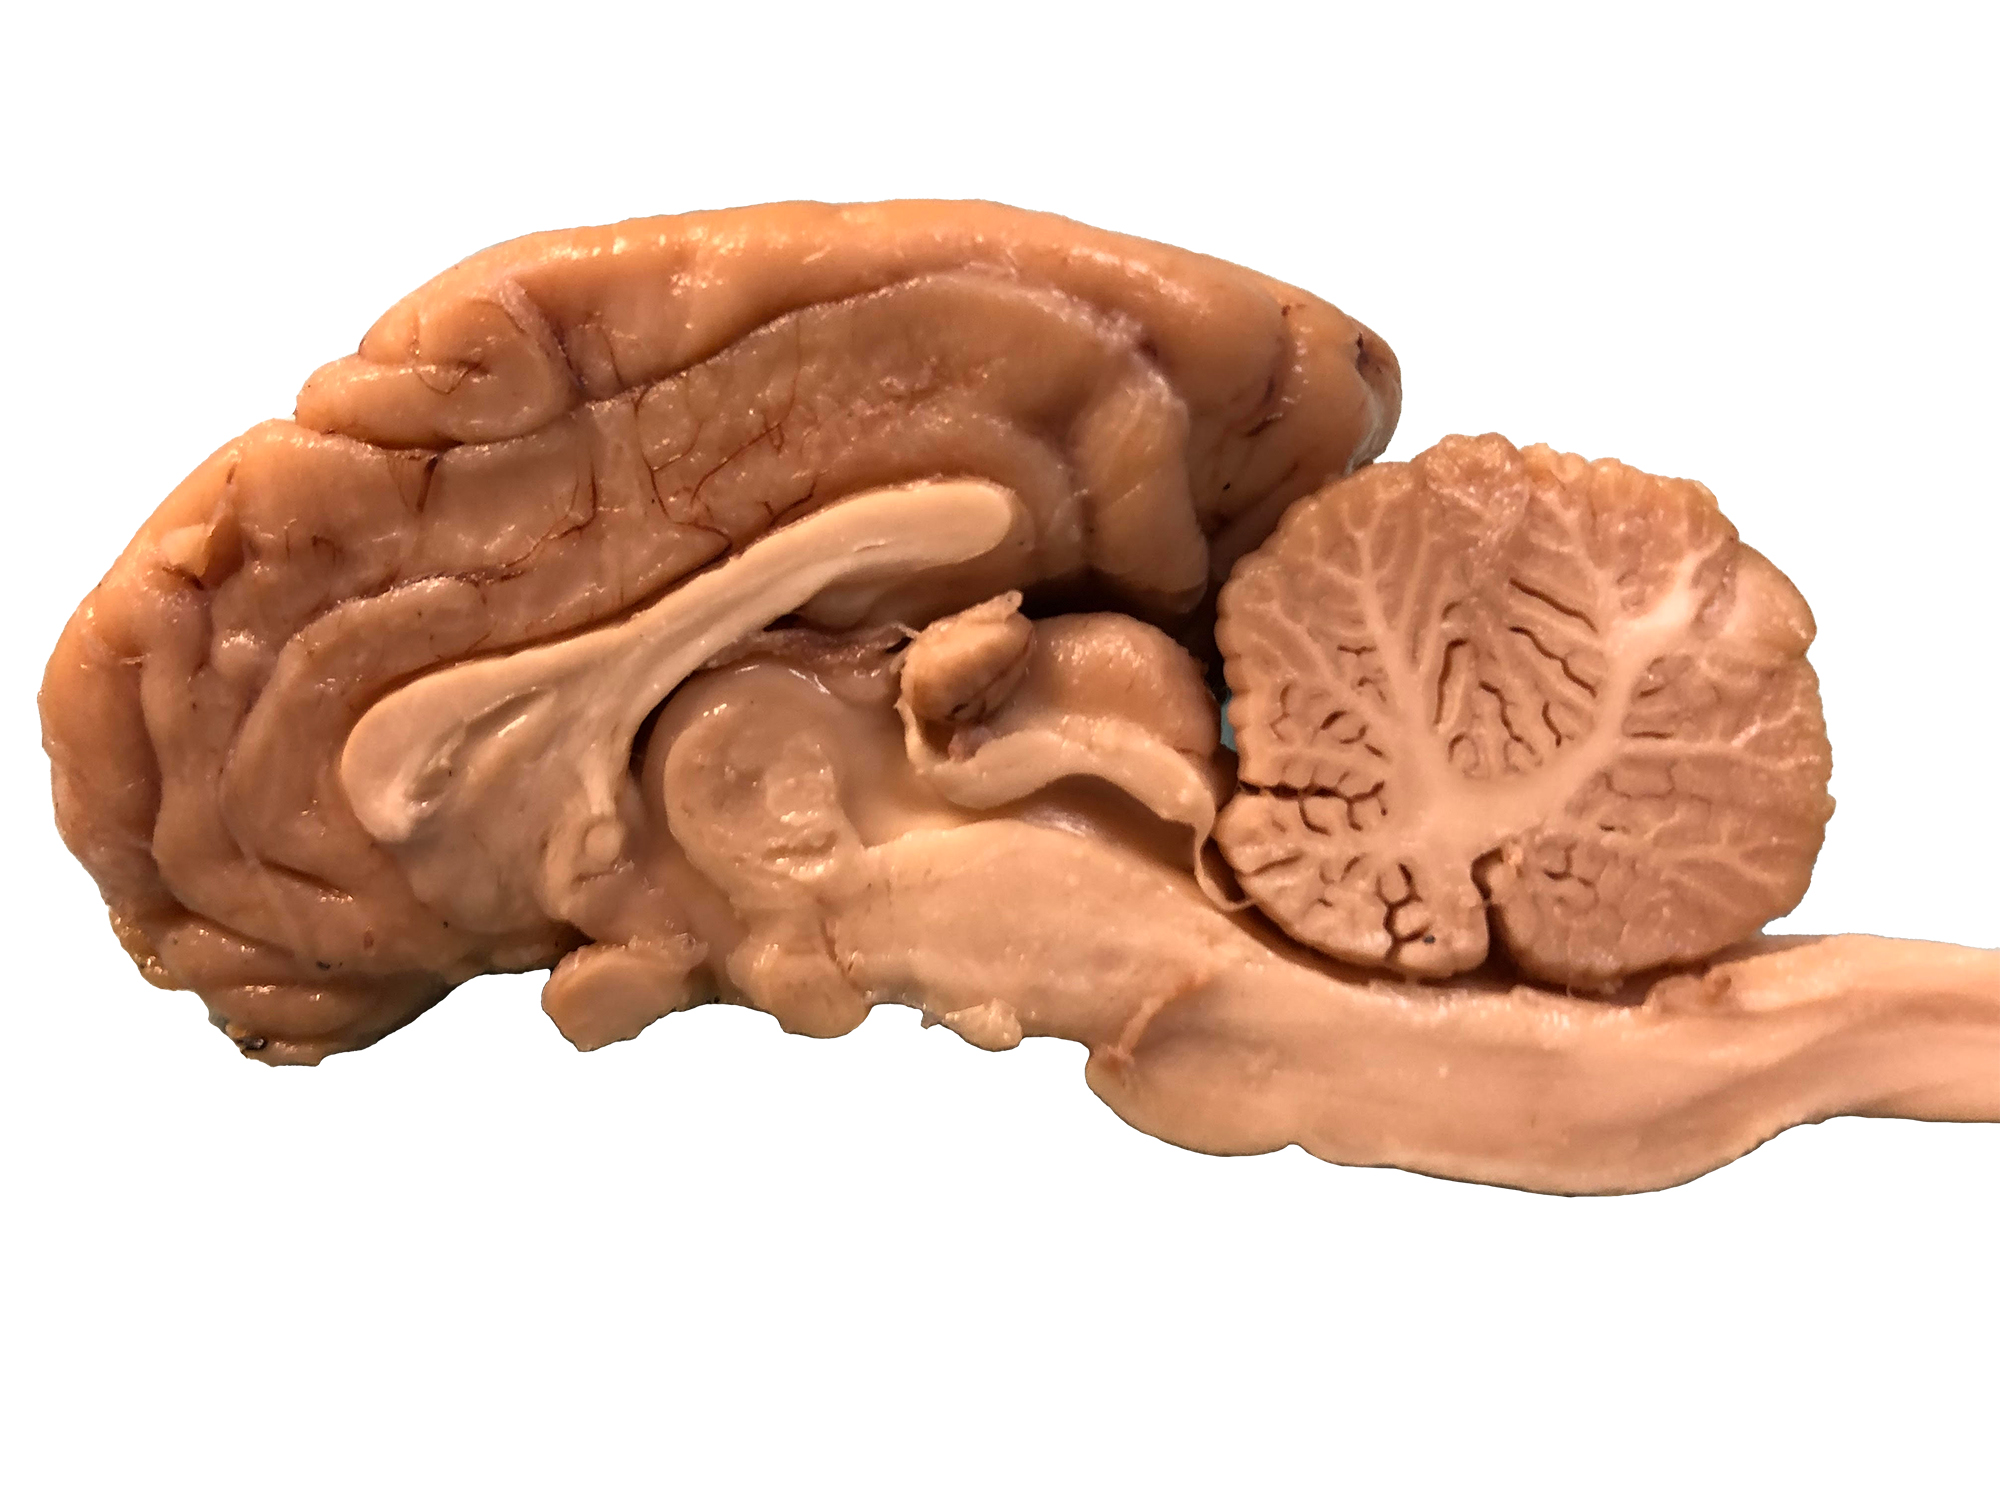
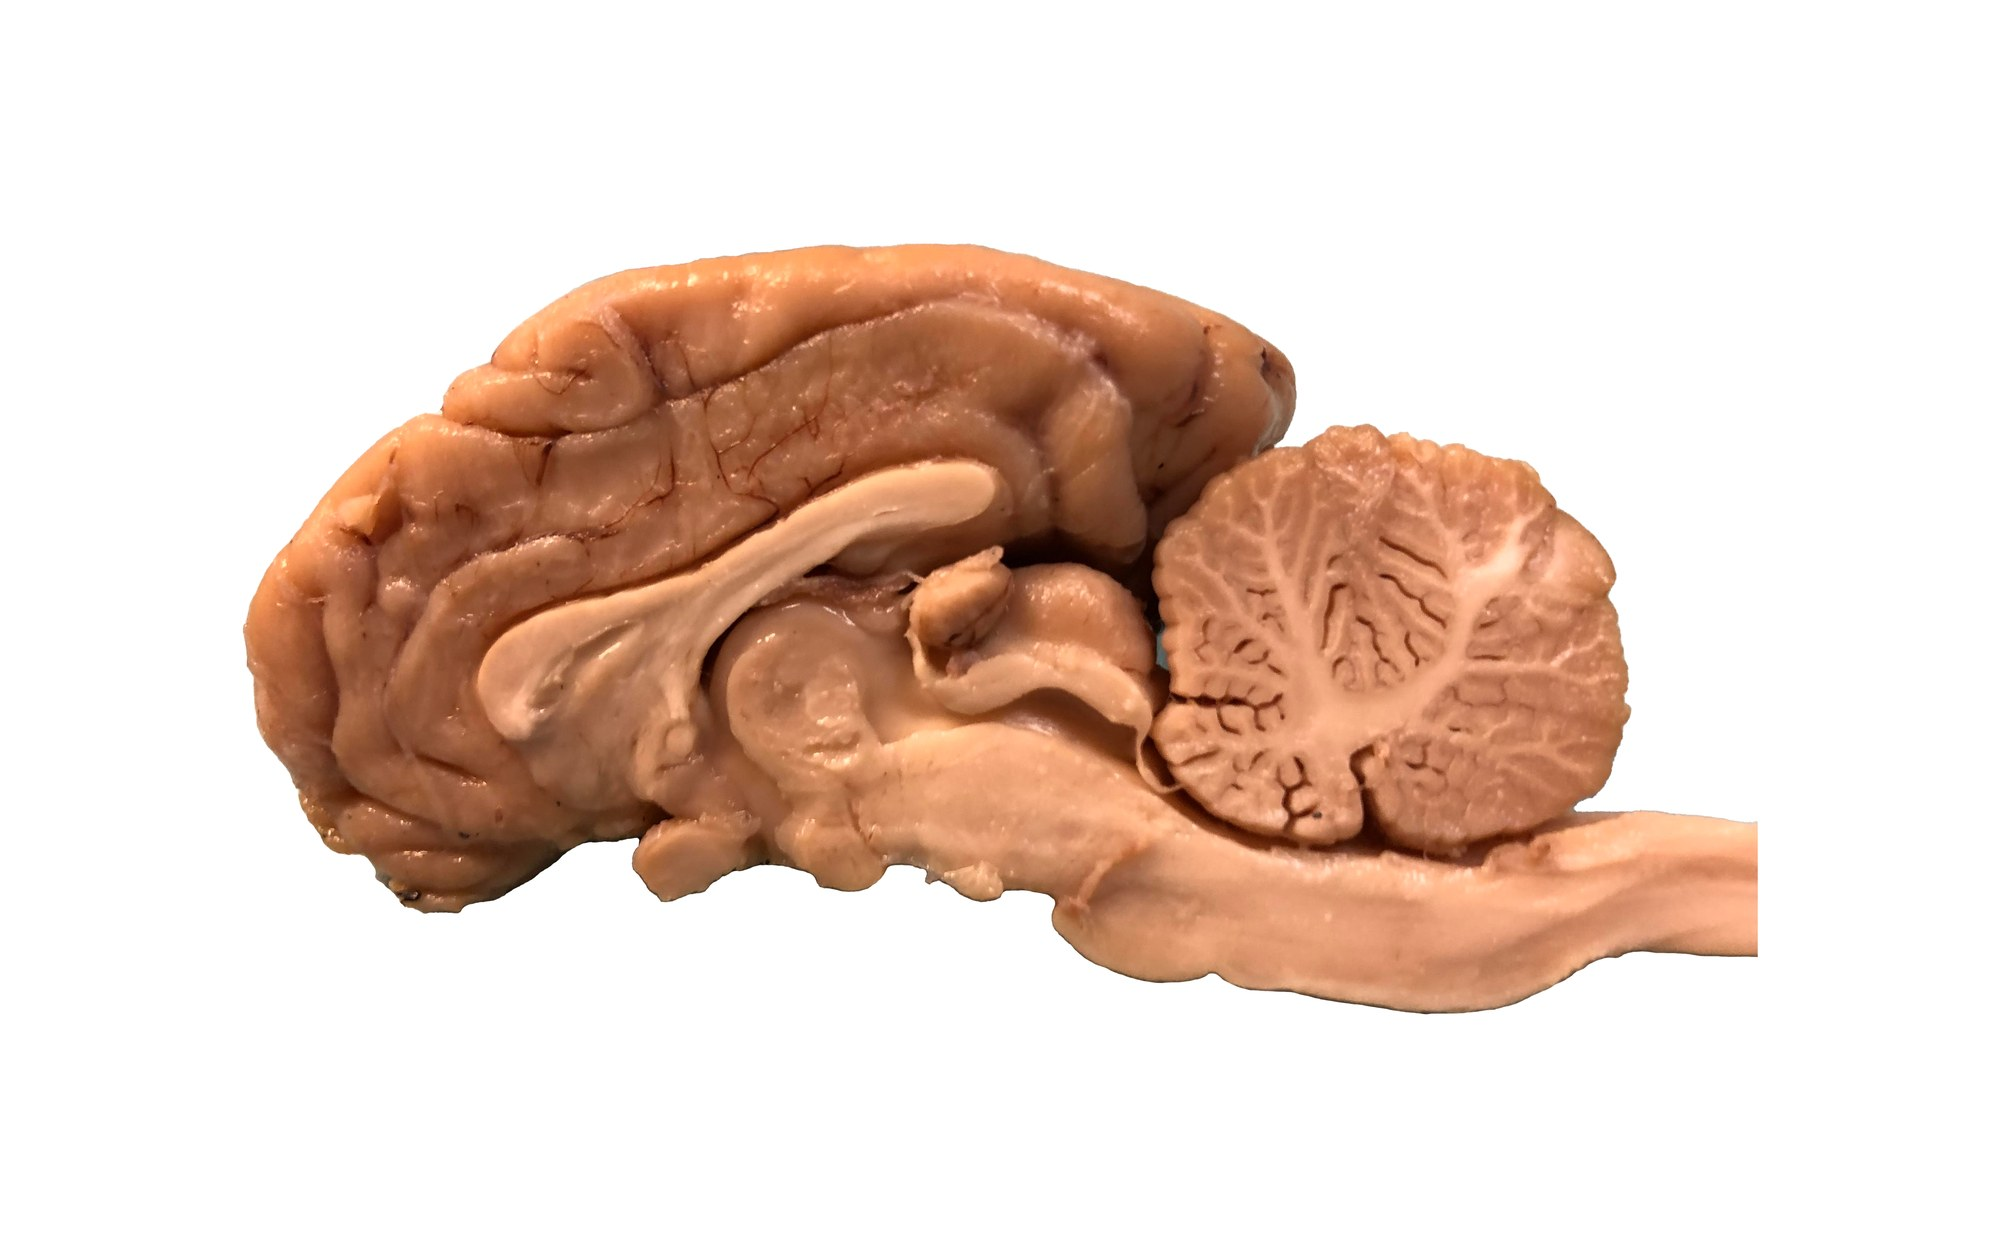
Add clean atlas plates for all views except pulled-back lateral
Eleven background-removed specimen plates, flattened onto white with a
uniform margin for label pills:

  midsagittal, dorsal, lateral, ventral, posterior-internal,
  coronal-a through coronal-f

Source PNGs carry the background mask in their alpha channel. Derived
JPEGs are 47 MB -> 1.9 MB; masters stay local and are gitignored.

- scripts/prepare-plates.py regenerates the JPEGs from the masters
- scripts/image-map.json registers all eleven plates
- midsagittal.jpg regenerated from a higher-resolution master

Outstanding: pulled-back-lateral has no clean plate yet (quiz blocks
Lat 12-16).

diff --git a/scripts/prepare-plates.py b/scripts/prepare-plates.py
@@ -1,0 +1,104 @@
+#!/usr/bin/env python3
+"""
+Turn background-removed specimen PNGs into atlas-ready JPEG plates.
+
+The source PNGs carry an alpha channel with the background already masked out.
+This script flattens that alpha onto white, trims to the specimen, adds a
+uniform margin for label pills to sit in, and downscales to a sane web size.
+
+Usage:
+    python3 scripts/prepare-plates.py [--margin 0.16] [--max-dim 2000] [--quality 88]
+"""
+
+import argparse
+import pathlib
+import sys
+
+try:
+    from PIL import Image
+except ImportError:
+    sys.exit("Pillow is required:  python3 -m pip install Pillow")
+
+ROOT = pathlib.Path(__file__).resolve().parent.parent
+SRC = ROOT / "images" / "clean"
+
+# Source filename -> canonical plate name (matches images/labeled/)
+PLATES = {
+    "Coronal A.png":                "coronal-a",
+    "Coronal B.png":                "coronal-b",
+    "Coronal C.png":                "coronal-c",
+    "Coronal D.png":                "coronal-d",
+    "Coronal E.png":                "coronal-e",
+    "Coronal F.png":                "coronal-f",
+    "Gross Dorsal View.png":        "dorsal",
+    "Gross Lateral View.png":       "lateral",
+    "Gross Posterior Internal.png": "posterior-internal",
+    "Gross Ventral View.png":       "ventral",
+    "Midsagittal.png":              "midsagittal",
+}
+
+
+def prepare(src: pathlib.Path, dst: pathlib.Path, margin: float, max_dim: int, quality: int):
+    im = Image.open(src).convert("RGBA")
+
+    # Trim to the opaque region — the specimen
+    bbox = im.getchannel("A").getbbox()
+    if bbox is None:
+        raise ValueError("image is fully transparent")
+    im = im.crop(bbox)
+
+    # Uniform margin, sized off the long edge so plates look consistent
+    pad = int(max(im.size) * margin)
+    canvas = Image.new("RGB", (im.width + pad * 2, im.height + pad * 2), "white")
+    canvas.paste(im, (pad, pad), im)          # alpha as the paste mask
+
+    # Downscale to the target long edge
+    long_edge = max(canvas.size)
+    if long_edge > max_dim:
+        s = max_dim / long_edge
+        canvas = canvas.resize(
+            (round(canvas.width * s), round(canvas.height * s)),
+            Image.LANCZOS,
+        )
+
+    canvas.save(dst, "JPEG", quality=quality, optimize=True, progressive=True)
+    return canvas.size, dst.stat().st_size
+
+
+def main():
+    ap = argparse.ArgumentParser()
+    ap.add_argument("--margin", type=float, default=0.16,
+                    help="margin as a fraction of the long edge (default 0.16)")
+    ap.add_argument("--max-dim", type=int, default=2000)
+    ap.add_argument("--quality", type=int, default=88)
+    args = ap.parse_args()
+
+    total_in = total_out = 0
+    missing = []
+
+    print(f"{'PLATE':<22} {'DIMENSIONS':<13} {'SIZE':>8}")
+    print("-" * 46)
+
+    for filename, name in PLATES.items():
+        src = SRC / filename
+        if not src.exists():
+            missing.append(filename)
+            continue
+        dst = SRC / f"{name}.jpg"
+        size, nbytes = prepare(src, dst, args.margin, args.max_dim, args.quality)
+        total_in += src.stat().st_size
+        total_out += nbytes
+        print(f"{name:<22} {size[0]}x{size[1]:<8} {nbytes // 1024:>6} KB")
+
+    print("-" * 46)
+    print(f"{len(PLATES) - len(missing)} plates   "
+          f"{total_in / 1e6:.1f} MB PNG -> {total_out / 1e6:.1f} MB JPEG")
+
+    if missing:
+        print("\nNot found:")
+        for m in missing:
+            print(f"  {m}")
+
+
+if __name__ == "__main__":
+    main()

diff --git a/images/README.md b/images/README.md
@@ -6,14 +6,35 @@ Photographed by FlowingMind. Licensed CC BY 4.0 — see [`LICENSE`](LICENSE).
 
 ---
 
-## `clean/` — unlabeled plates
+## `clean/` — atlas plates
 
-What the interactive atlas needs. Labels are rendered as live HTML on top of these, which is
-what makes them independently filterable.
+Specimen on white with margin for label pills. These are what the interactive atlas renders;
+labels are drawn as live HTML on top, which is what makes them independently filterable.
 
 | File | View | Dimensions |
 |---|---|---|
-| `midsagittal.jpg` | Midsagittal section | 2000 × 1500 |
+| `midsagittal.jpg` | Midsagittal section | 2000 × 1257 |
+| `dorsal.jpg` | Dorsal surface | 1512 × 2000 |
+| `lateral.jpg` | Lateral surface | 2000 × 1423 |
+| `ventral.jpg` | Ventral surface | 2000 × 1419 |
+| `posterior-internal.jpg` | Posterior, internal | 2000 × 1850 |
+| `coronal-a.jpg` … `coronal-f.jpg` | Coronal series, rostral → caudal | ~2000 × 1450–1540 |
+
+**Still needed:** `pulled-back-lateral.jpg` — the lateral view with the cerebellum retracted,
+covering the geniculate nuclei, brachium, and middle cerebellar peduncle (quiz blocks Lat 12–16).
+A labeled version exists in `labeled/`; the clean master hasn't been produced yet.
+
+### Regenerating
+
+Masters are PNGs with the background masked out via alpha. They're kept locally rather than
+committed — 47 MB against 1.9 MB for the derived JPEGs. To rebuild the plates from them:
+
+```bash
+python3 scripts/prepare-plates.py
+```
+
+The script flattens alpha onto white, trims to the specimen, adds a 16% margin, and downscales
+to a 2000 px long edge. Adjust with `--margin`, `--max-dim`, and `--quality`.
 
 ## `labeled/` — original plates
 
@@ -28,27 +49,6 @@ for what each view is supposed to show, and as a fallback if clean versions neve
 | `posterior-internal.jpg` | Posterior, internal | 3 |
 | `pulled-back-lateral.jpg` | Lateral, cerebellum retracted | 5 |
 | `coronal-a.jpg` … `coronal-f.jpg` | Coronal series, rostral → caudal | 3–10 each |
-
----
-
-## Producing clean plates
-
-To build an atlas for any view in `labeled/`, an unlabeled version has to exist first.
-
-**If layered source files survive** (Keynote, PowerPoint, Illustrator, Photoshop), hide the
-label layer and re-export. Minutes per plate.
-
-**If the labels were flattened**, it's manual cleanup — clone/heal over the text and leader
-lines. Watch for ghosting, which reads badly under an HTML label sitting on top.
-
-Either way:
-
-- **Format** JPEG. These are photographs; PNG buys nothing here.
-- **Width** 1500–2000 px. The atlas scales down cleanly; it can't invent detail.
-- **File size** Under ~800 KB, so the survey stays responsive on classroom wifi.
-- **Background** Leave the white surround. The atlas places labels in that margin.
-
-Save to `clean/` with a name matching the view.
 
 ---
 
